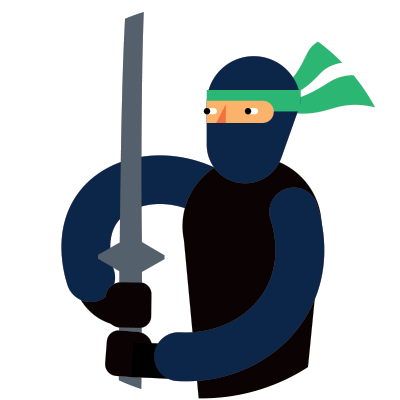
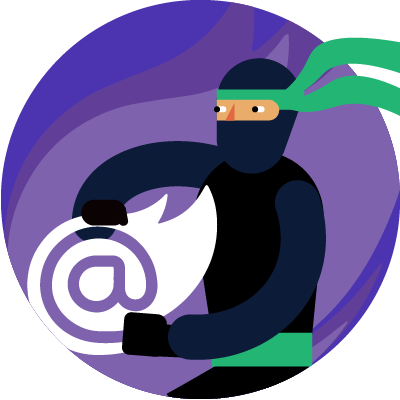
chore: Update Blazor project templates and extension image (#52)
* Updated templates according to 2.11 changes

* Updated template wizard image

diff --git a/blazor-ui-template-wizard/templates/Web/Projects/BlazorClientDefault/Client/wwwroot/index.html b/blazor-ui-template-wizard/templates/Web/Projects/BlazorClientDefault/Client/wwwroot/index.html
@@ -1,8 +1,9 @@
 <!DOCTYPE html>
 <html>
+
 <head>
     <meta charset="utf-8" />
-    <meta name="viewport" content="width=device-width" />
+    <meta name="viewport" content="width=device-width, initial-scale=1.0, maximum-scale=1.0, user-scalable=no" />
     <title>ClientAspNetHostedBlazorApp</title>
     <base href="/" />
     <link href="css/bootstrap/bootstrap.min.css" rel="stylesheet" />
@@ -11,9 +12,17 @@
     <link rel="stylesheet" href="TelerikBlazorScripts/css/kendo-theme-Param_Theme/all.css" />
     <script src="TelerikBlazorScripts/js/telerik-blazor.js" defer></script>
 </head>
+
 <body>
     <app>Loading...</app>
 
+    <div id="blazor-error-ui">
+        An unhandled error has occurred.
+        <a href="" class="reload">Reload</a>
+        <a class="dismiss">🗙</a>
+    </div>
+
     <script src="_framework/blazor.webassembly.js"></script>
 </body>
+
 </html>

diff --git a/blazor-ui-template-wizard/templates/Web/Projects/BlazorClientDefault/Server/Startup.cs b/blazor-ui-template-wizard/templates/Web/Projects/BlazorClientDefault/Server/Startup.cs
@@ -1,46 +1,55 @@
 using Microsoft.AspNetCore.Builder;
+using Microsoft.AspNetCore.HttpsPolicy;
 using Microsoft.AspNetCore.Hosting;
 using Microsoft.AspNetCore.ResponseCompression;
+using Microsoft.Extensions.Configuration;
 using Microsoft.Extensions.DependencyInjection;
 using Microsoft.Extensions.Hosting;
-using Newtonsoft.Json.Serialization;
 using System.Linq;
 
 namespace ClientApp.Server
 {
     public class Startup
     {
+        public Startup(IConfiguration configuration)
+        {
+            Configuration = configuration;
+        }
+
+        public IConfiguration Configuration { get; }
+
         // This method gets called by the runtime. Use this method to add services to the container.
         // For more information on how to configure your application, visit https://go.microsoft.com/fwlink/?LinkID=398940
         public void ConfigureServices(IServiceCollection services)
         {
-            services.AddMvc().AddNewtonsoftJson();
-            services.AddResponseCompression(opts =>
-            {
-                opts.MimeTypes = ResponseCompressionDefaults.MimeTypes.Concat(
-                    new[] { "application/octet-stream" });
-            });
+            services.AddControllersWithViews();
         }
 
         // This method gets called by the runtime. Use this method to configure the HTTP request pipeline.
         public void Configure(IApplicationBuilder app, IWebHostEnvironment env)
         {
-            app.UseResponseCompression();
-
             if (env.IsDevelopment())
             {
                 app.UseDeveloperExceptionPage();
                 app.UseWebAssemblyDebugging();
             }
+            else
+            {
+                app.UseExceptionHandler("/Error");
+                // The default HSTS value is 30 days. You may want to change this for production scenarios, see https://aka.ms/aspnetcore-hsts.
+                app.UseHsts();
+            }
 
-            app.UseStaticFiles();
+            app.UseHttpsRedirection();
             app.UseBlazorFrameworkFiles();
+            app.UseStaticFiles();
 
             app.UseRouting();
 
             app.UseEndpoints(endpoints =>
             {
-                endpoints.MapDefaultControllerRoute();
+                endpoints.MapControllers();
+                
                 endpoints.MapFallbackToFile("index.html");
             });
         }

diff --git a/blazor-ui-template-wizard/templates/Web/_composition/BlazorClient/Blazor.Client.AddWeatherService/Client/Services/WeatherForecastService.cs b/blazor-ui-template-wizard/templates/Web/_composition/BlazorClient/Blazor.Client.AddWeatherService/Client/Services/WeatherForecastService.cs
@@ -3,6 +3,7 @@ using System.Collections.Generic;
 using System.Globalization;
 using System.Linq;
 using System.Net.Http;
+using System.Net.Http.Json;
 using System.Threading.Tasks;
 using ClientApp.Shared;
 using Microsoft.AspNetCore.Components;
@@ -21,13 +22,13 @@ namespace ClientApp.Services
 
         public async Task<List<WeatherForecast>> GetForecastListAsync(DateTime startDate)
         {
-            var data = await Http.GetJsonAsync<List<WeatherForecast>>("WeatherForecast?startDate=" + startDate.ToString(CultureInfo.InvariantCulture));
+            var data = await Http.GetFromJsonAsync<List<WeatherForecast>>("WeatherForecast?startDate=" + startDate.ToString(CultureInfo.InvariantCulture));
             return data;
         }
 
         public async Task UpdateForecastAsync(WeatherForecast forecastToUpdate)
         {
-            await Http.PostJsonAsync("WeatherForecast", forecastToUpdate);
+            await Http.PostAsJsonAsync("WeatherForecast", forecastToUpdate);
         }
 
         public async Task DeleteForecastAsync(WeatherForecast forecastToRemove)
@@ -37,7 +38,7 @@ namespace ClientApp.Services
 
         public async Task InsertForecastAsync(WeatherForecast forecastToInsert)
         {
-            await Http.PutJsonAsync("WeatherForecast", forecastToInsert);
+            await Http.PutAsJsonAsync("WeatherForecast", forecastToInsert);
         }
     }
 }

diff --git a/blazor-ui-template-wizard/templates/Web/Projects/BlazorClientDefault/Server/Program.cs b/blazor-ui-template-wizard/templates/Web/Projects/BlazorClientDefault/Server/Program.cs
@@ -1,6 +1,11 @@
-using Microsoft.AspNetCore;
+using System;
+using System.Collections.Generic;
+using System.Linq;
+using System.Threading.Tasks;
 using Microsoft.AspNetCore.Hosting;
 using Microsoft.Extensions.Configuration;
+using Microsoft.Extensions.Hosting;
+using Microsoft.Extensions.Logging;
 
 namespace ClientApp.Server
 {
@@ -8,16 +13,15 @@ namespace ClientApp.Server
     {
         public static void Main(string[] args)
         {
-            BuildWebHost(args).Run();
+            CreateHostBuilder(args).Build().Run();
         }
 
-        public static IWebHost BuildWebHost(string[] args) =>
-            WebHost.CreateDefaultBuilder(args)
-                .UseConfiguration(new ConfigurationBuilder()
-                    .AddCommandLine(args)
-                    .Build())
-                .UseStaticWebAssets()
-                .UseStartup<Startup>()
-                .Build();
+        public static IHostBuilder CreateHostBuilder(string[] args) =>
+            Host.CreateDefaultBuilder(args)
+                .ConfigureWebHostDefaults(webBuilder =>
+                {
+                    webBuilder.UseStartup<Startup>();
+                    webBuilder.UseStaticWebAssets();
+                });
     }
 }

diff --git a/blazor-ui-template-wizard/templates/Web/Projects/BlazorClientDefault/Client/Program.cs b/blazor-ui-template-wizard/templates/Web/Projects/BlazorClientDefault/Client/Program.cs
@@ -1,6 +1,8 @@
 using Microsoft.AspNetCore.Components.WebAssembly.Hosting;
 using Microsoft.Extensions.DependencyInjection;
 using System.Threading.Tasks;
+using System.Net.Http;
+using System;
 
 namespace ClientApp.Client
 {
@@ -10,7 +12,7 @@ namespace ClientApp.Client
         {
             var builder = WebAssemblyHostBuilder.CreateDefault(args);
             builder.RootComponents.Add<App>("app");
-            builder.Services.AddBaseAddressHttpClient();
+            builder.Services.AddSingleton(new HttpClient { BaseAddress = new Uri(builder.HostEnvironment.BaseAddress) });
             builder.Services.AddTelerikBlazor();
 
             await builder.Build().RunAsync();

diff --git a/blazor-ui-template-wizard/templates/Web/Projects/BlazorServerDefault/Startup.cs b/blazor-ui-template-wizard/templates/Web/Projects/BlazorServerDefault/Startup.cs
@@ -51,6 +51,9 @@ namespace ServerApp
 
             app.UseEndpoints(endpoints =>
             {
+                endpoints.MapDefaultControllerRoute();
+                endpoints.MapControllers();
+
                 endpoints.MapBlazorHub();
                 endpoints.MapFallbackToPage("/_Host");
             });

diff --git a/blazor-ui-template-wizard/templates/Web/_composition/BlazorClient/Blazor.Client.AddWeatherService/Shared/WeatherForecast.cs b/blazor-ui-template-wizard/templates/Web/_composition/BlazorClient/Blazor.Client.AddWeatherService/Shared/WeatherForecast.cs
@@ -13,5 +13,10 @@ namespace ClientApp.Shared
         public int TemperatureF => 32 + (int)(TemperatureC / 0.5556);
 
         public string Summary { get; set; }
+
+        public WeatherForecast()
+        {
+            Date = DateTime.Now.Date;
+        }
     }
 }

diff --git a/blazor-ui-template-wizard/templates/Web/_composition/BlazorServer/Blazor.Server.AddWeatherService/Data/WeatherForecast.cs b/blazor-ui-template-wizard/templates/Web/_composition/BlazorServer/Blazor.Server.AddWeatherService/Data/WeatherForecast.cs
@@ -13,5 +13,10 @@ namespace ServerApp.Models
         public int TemperatureF => 32 + (int)(TemperatureC / 0.5556);
 
         public string Summary { get; set; }
+
+        public WeatherForecast()
+        {
+            Date = DateTime.Now.Date;
+        }
     }
 }
